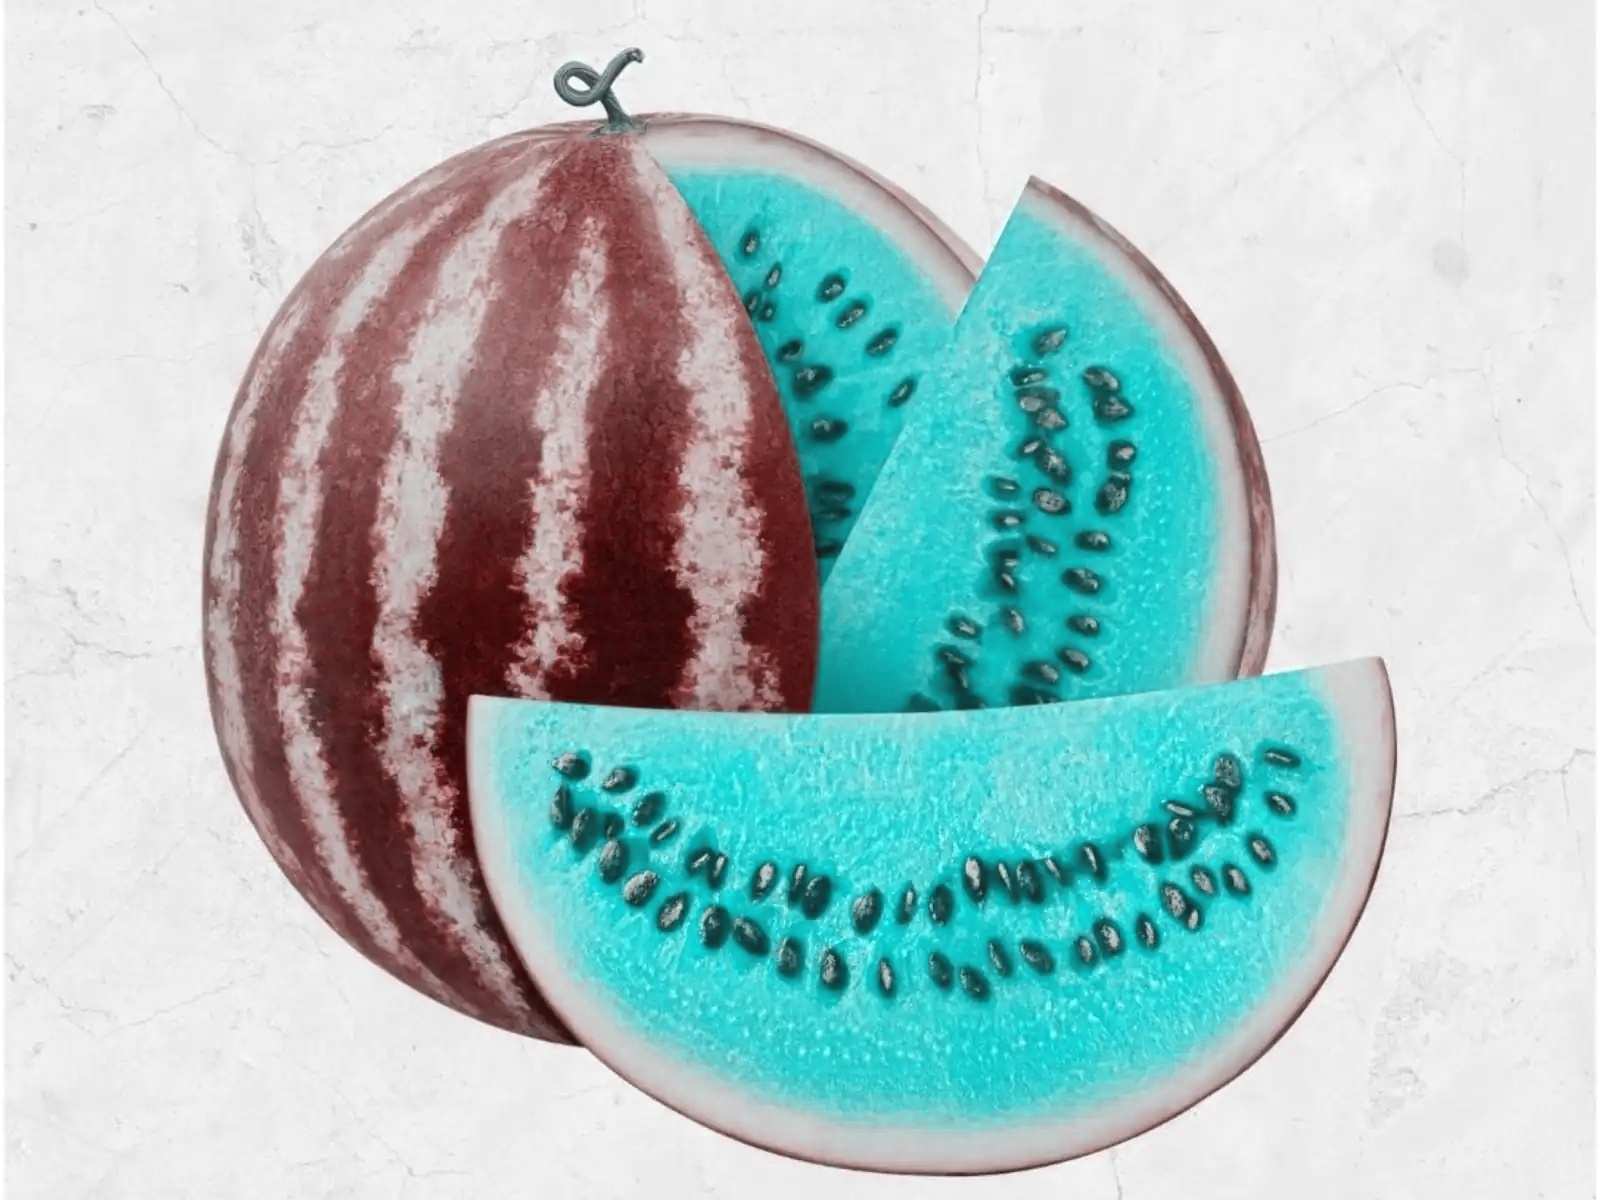
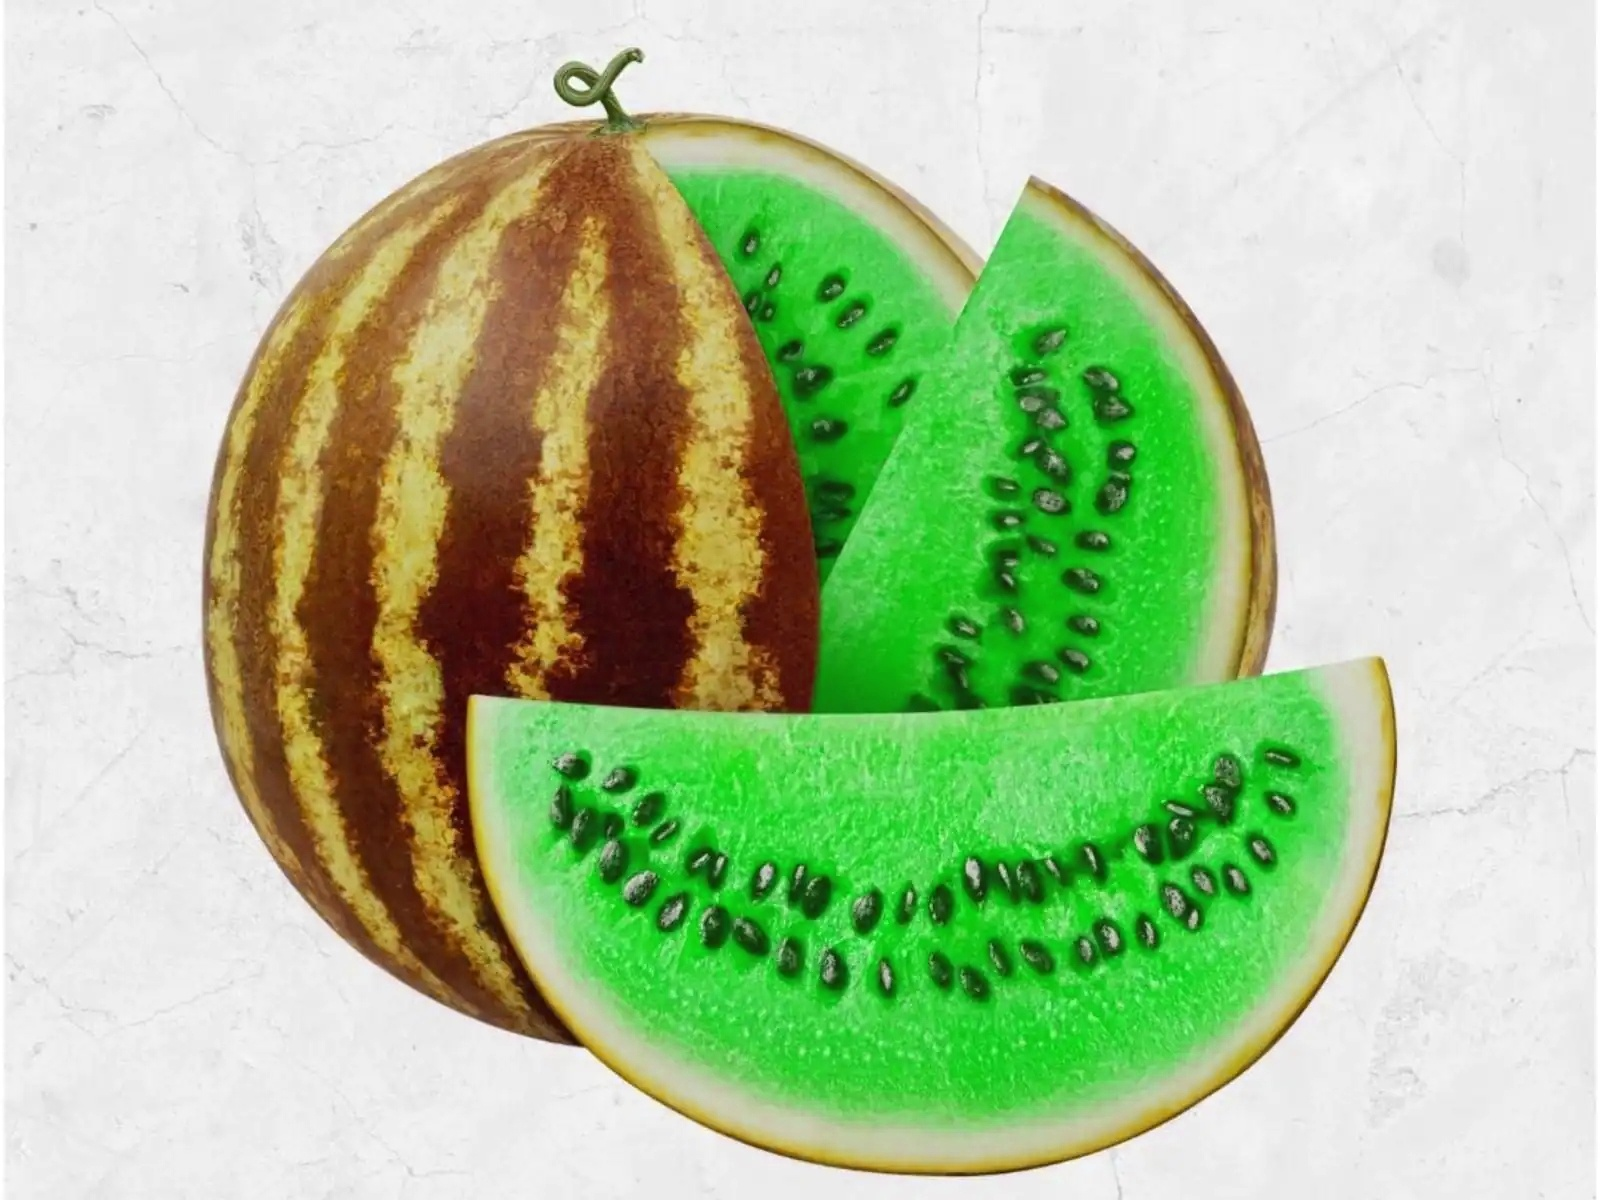
first commit

diff --git a/Image Processing/Session 9/Assignment/materwelon/materwelon.py b/Image Processing/Session 9/Assignment/materwelon/materwelon.py
@@ -4,13 +4,13 @@ import numpy as np
 
 def convert_to_materwelon(image_path):
     image = cv2.imread(image_path)
-    image = cv2.cvtColor(image, cv2.COLOR_BGR2RGB)
+    # image = cv2.cvtColor(image, cv2.COLOR_BGR2RGB)
 
     if image is None:
         print("Error: Image cannot be loaded.")
         return
 
-    red_channel = image[:, :, 0].copy()
+    red_channel = image[:, :, 2].copy()
     green_channel = image[:, :, 1].copy()
 
     image[:, :, 1] = red_channel
